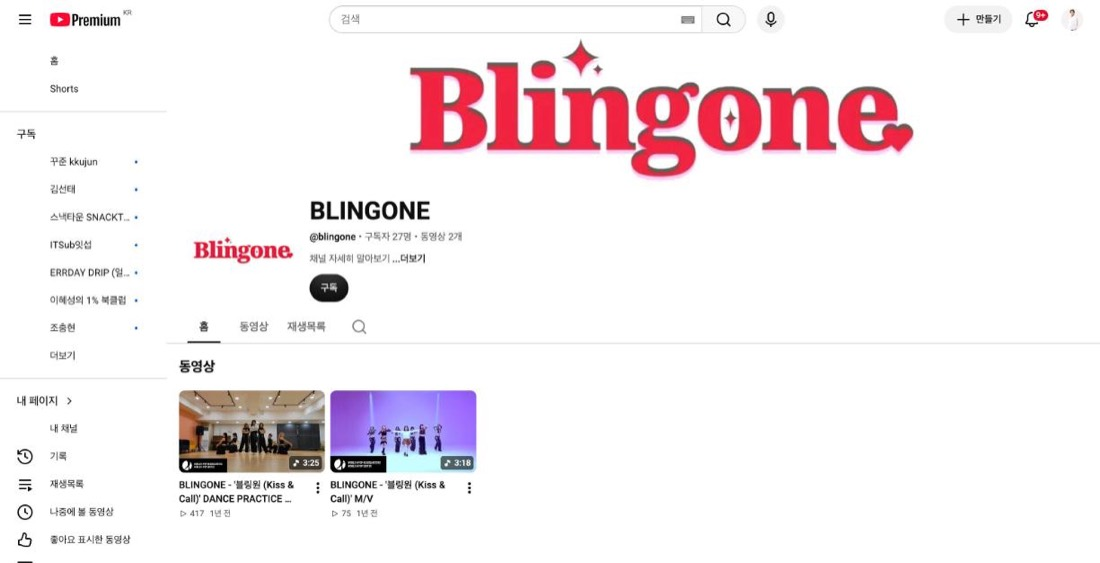
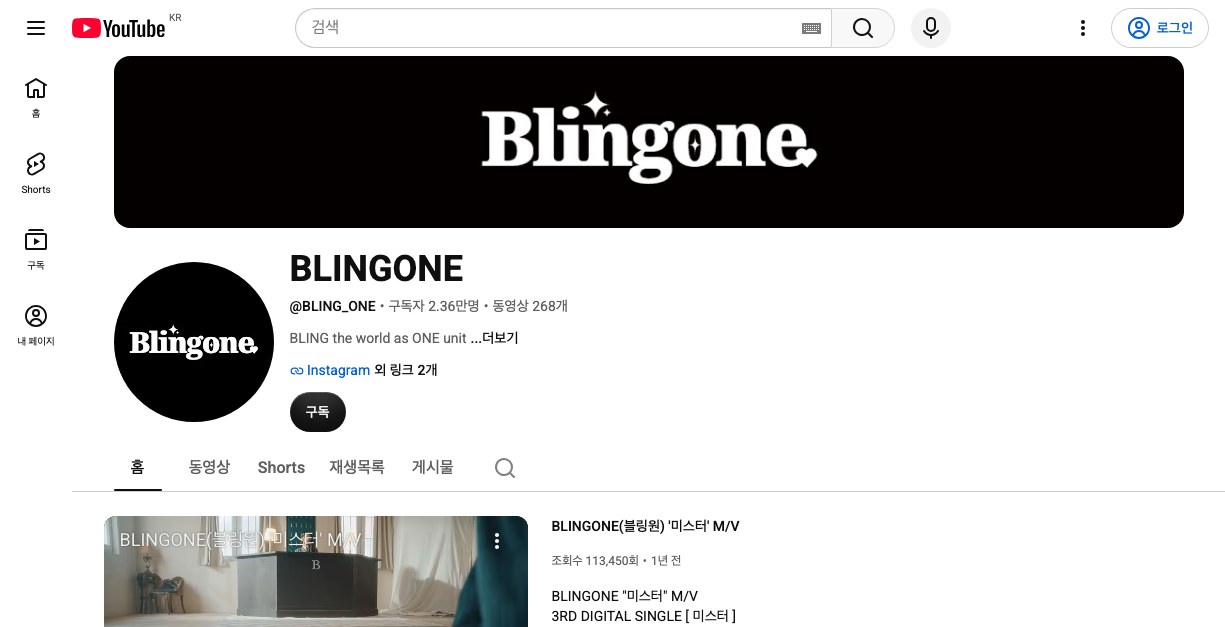
Fix YouTube channel data: @BLING_ONE 23.6K subs, 268 videos (~210 Shorts)

diff --git a/index.html b/index.html
@@ -275,12 +275,12 @@ dialog::backdrop{background:rgba(15,13,16,.9)}
     <li><span class="k">TikTok</span><span class="v">78.5K</span><span class="d">팔로워 · 좋아요 93.6만. 반응할 사람은 있지만 다시 찾아볼 시리즈가 없습니다.</span></li>
     <li><span class="k">Instagram</span><span class="v">26.3K</span><span class="d">팔로워 · 최근 릴스 조회 1천~1만. 게시물 477개, 포맷이 매번 다릅니다.</span></li>
     <li><span class="k">Xiaohongshu</span><span class="v">13K</span><span class="d">팔로워 · 노트 375. 연관 검색어에 「해체 이유」가 뜹니다.</span></li>
-    <li><span class="k">YouTube</span><span class="v pk">27</span><span class="d">구독자 · 쇼츠 0편. 올해 중소 걸그룹이 뜬 경로가 바로 유튜브 쇼츠였습니다.</span></li>
+    <li><span class="k">YouTube</span><span class="v pk">23.6K</span><span class="d">구독자 · 영상 268개(쇼츠 약 210편). 꾸준히 올렸지만 다음 편을 부르는 반복 포맷이 없습니다. 올해 중소 걸그룹이 뜬 경로가 바로 유튜브 쇼츠였습니다.</span></li>
   </ul>
   <div class="trio">
     <figure class="shot"><div class="ph"><img src="img/r02.jpg" alt="블링원 틱톡 프로필"></div><figcaption><p class="mono"><b>A</b>&nbsp; TikTok</p><p>팔로워 대비 좋아요가 높습니다. 반응은 이미 있습니다.</p></figcaption></figure>
     <figure class="shot"><div class="ph"><img src="img/r05.jpg" alt="샤오홍슈 블링원 검색 결과"></div><figcaption><p class="mono"><b>B</b>&nbsp; Xiaohongshu</p><p>「아직 활동하나요?」 — 꾸준한 업로드가 가장 좋은 답입니다.</p></figcaption></figure>
-    <figure class="shot"><div class="ph"><img src="img/r01.jpg" alt="블링원 유튜브 채널"></div><figcaption><p class="mono"><b>C</b>&nbsp; YouTube</p><p>가장 큰 빈칸. 쇼츠가 아직 한 편도 없습니다.</p></figcaption></figure>
+    <figure class="shot"><div class="ph"><img src="img/r01.jpg" alt="블링원 유튜브 채널"></div><figcaption><p class="mono"><b>C</b>&nbsp; YouTube</p><p>가장 큰 기회. 쇼츠는 이미 쌓여 있으니, 포맷만 정하면 바로 시리즈가 됩니다.</p></figcaption></figure>
   </div>
 </div></section>
 
@@ -350,7 +350,7 @@ dialog::backdrop{background:rgba(15,13,16,.9)}
     <div><p class="mono">Step 04</p><h3>Post</h3><p>공식 채널에 올리고, 매주 조회 수와 반응을 함께 봅니다.</p></div>
   </div>
   <ul class="weeks">
-    <li><span class="w">WEEK 01–02</span><span class="t">멤버별 시그니처 제스처 정하기 · 유튜브 쇼츠 시작 · 포맷 1·6·8로 첫 반응 보기</span><span class="c">05</span><span class="bar"><span style="width:25%"></span></span></li>
+    <li><span class="w">WEEK 01–02</span><span class="t">멤버별 시그니처 제스처 정하기 · 유튜브 쇼츠 시리즈 시작 · 포맷 1·6·8로 첫 반응 보기</span><span class="c">05</span><span class="bar"><span style="width:25%"></span></span></li>
     <li><span class="w">WEEK 03–04</span><span class="t">반응 좋은 포맷 늘리기 · 화장품 포맷(3·9) 시작</span><span class="c">10</span><span class="bar"><span style="width:50%"></span></span></li>
     <li><span class="w">WEEK 05–06</span><span class="t">「Bubble Gum」 챌린지(5·10) 공개 · 시리즈(6·7) 이어 가기</span><span class="c">15</span><span class="bar"><span style="width:75%"></span></span></li>
     <li><span class="w">WEEK 07–08</span><span class="t">마무리 5편 · 8주 결과 정리 및 다음 단계 협의</span><span class="c">20</span><span class="bar"><span style="width:100%"></span></span></li>
